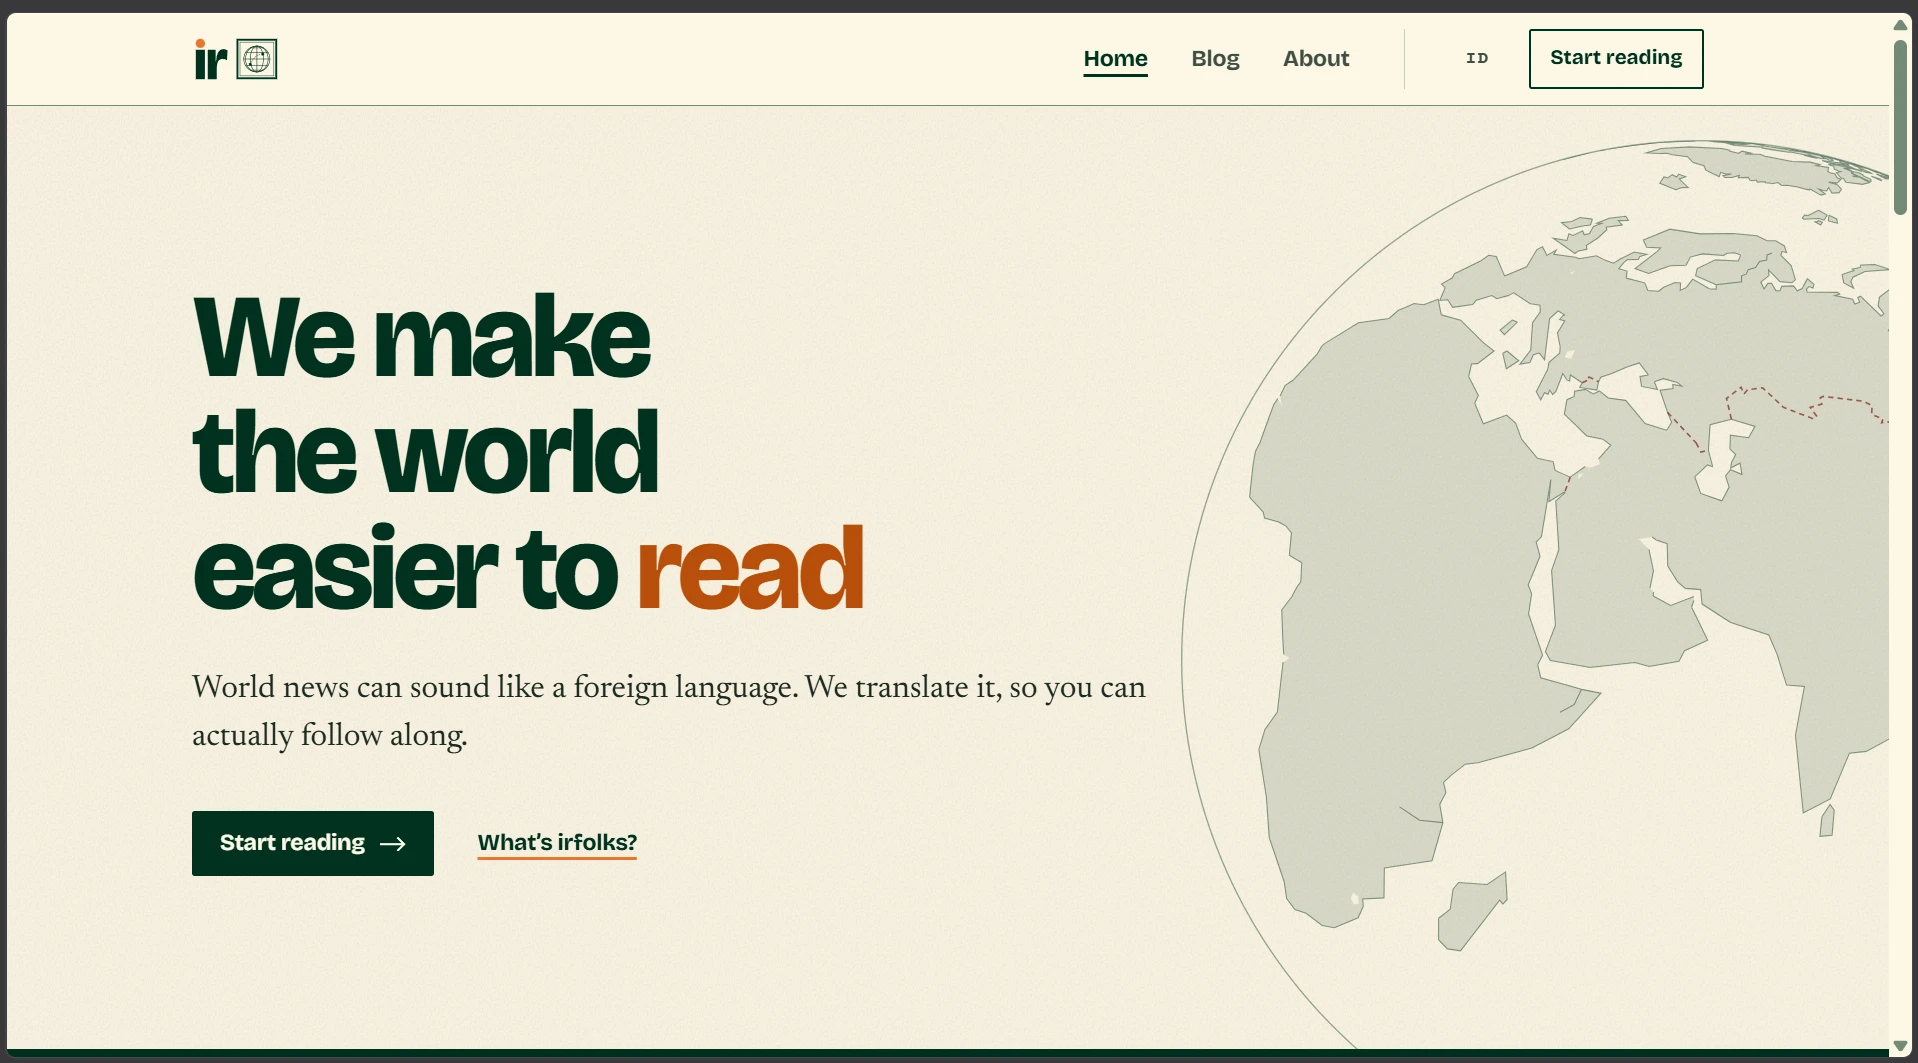
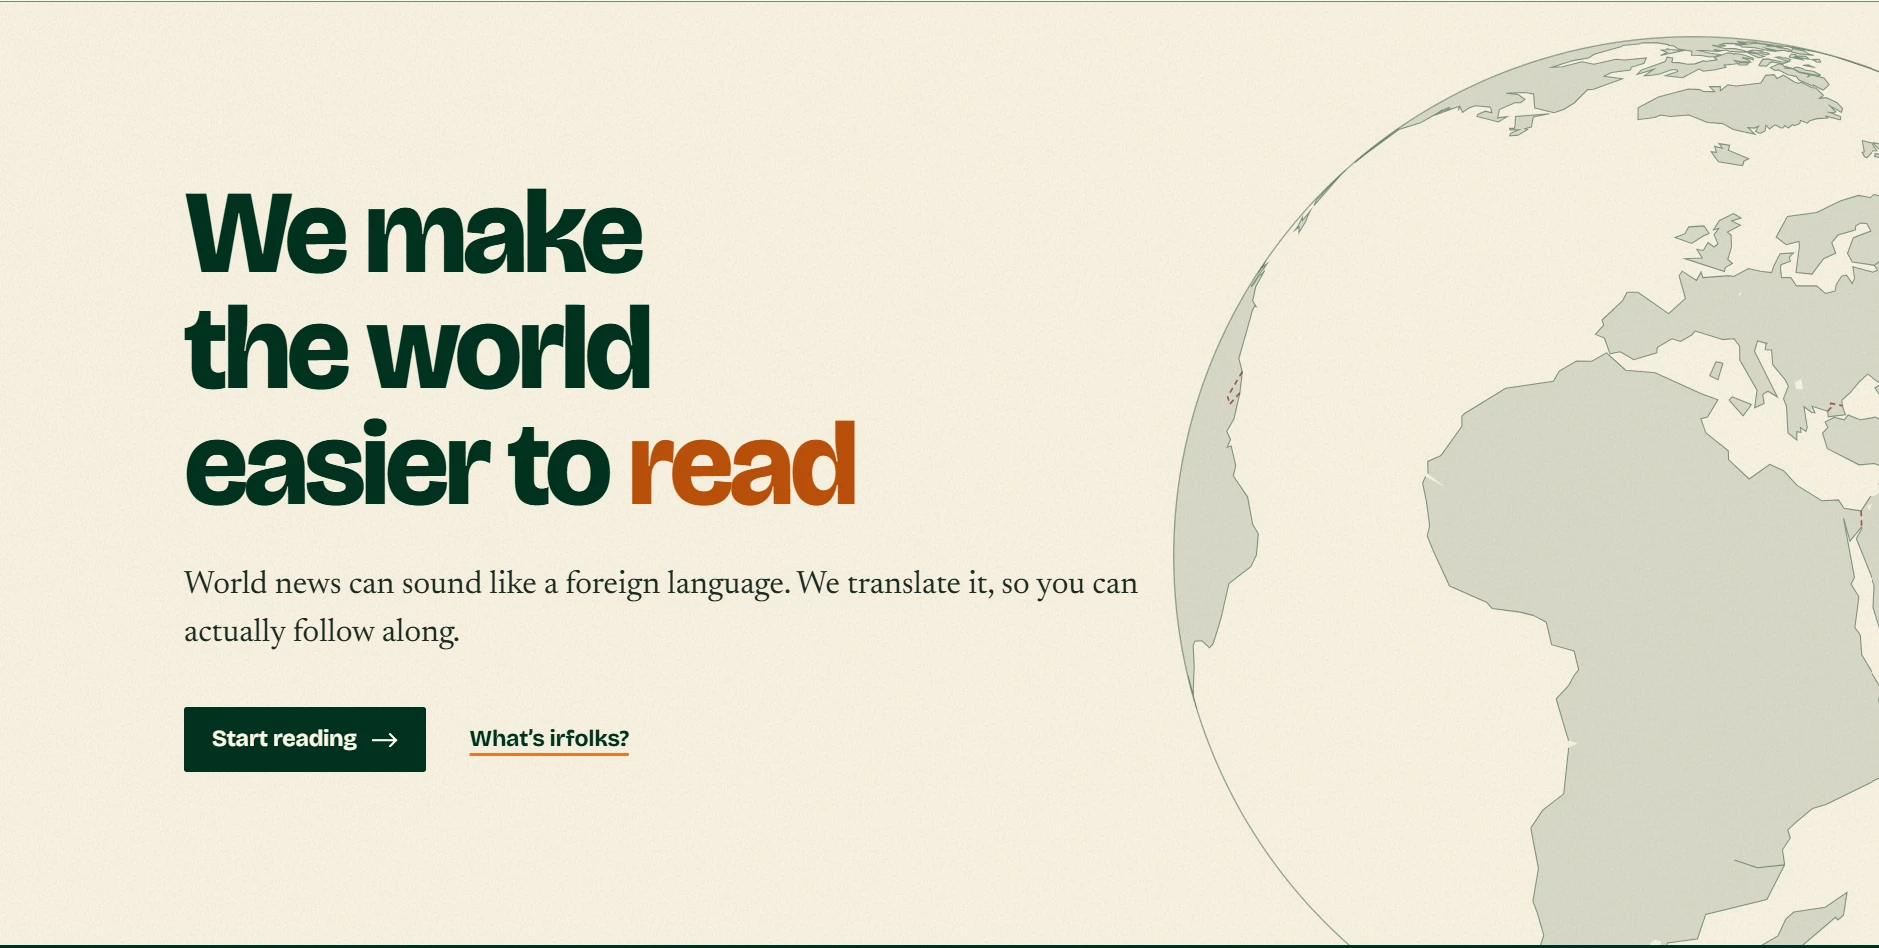
feat(work): cleaner irfolks screenshot; card and collage tile take the image's own ratio so it is never cropped

diff --git a/src/main.js b/src/main.js
@@ -114,7 +114,7 @@ const card = (w) => {
   const live = isUrl(w.url);
   const cover = coverHtml(w, { lazy: true, label: true });
   const body = `
-    <div class="card__media" data-reveal="expand">${cover}</div>
+    <div class="card__media" data-reveal="expand"${w.cover_ratio ? ` style="aspect-ratio:${w.cover_ratio}"` : ''}>${cover}</div>
     <div class="card__meta">
       <h3>${ph(w.title, 'Placeholder title')}</h3>
       <p>${esc(w.category)} · ${ph(w.year, '0000')}</p>
@@ -359,7 +359,7 @@ const DECO = ['accent', 'soft', 'muted'];
 const tile = (w, i) => {
   const [x, y, width, ratio, speed] = SLOTS[i % SLOTS.length];
   const attrs = (cls) =>
-    `class="tile ${cls}" data-x="${x}" data-y="${y}" data-speed="${speed}" style="--w:${width};--r:${ratio};--wh:40"`;
+    `class="tile ${cls}" data-x="${x}" data-y="${y}" data-speed="${speed}" style="--w:${width};--r:${w?.cover_ratio ?? ratio};--wh:40"`;
   if (!w) return `<div ${attrs(`tile--deco tile--${DECO[(i >> 1) % DECO.length]}`)} aria-hidden="true"></div>`;
   const body = `<div class="tile__media">${coverHtml(w, { lazy: true })}</div>
     <p class="tile__cap">${ph(w.title, 'Placeholder title')}<span>${esc(w.category)}</span></p>`;

diff --git a/src/styles.css b/src/styles.css
@@ -195,7 +195,7 @@ html[data-mode='color'] .clock { color: #faeb92; }
 .sheet--soft { background: var(--soft2); transform: rotate(-12deg) translate(-6%, 2%); }
 .sheet--accent { background: var(--accent); transform: rotate(7deg) translate(4%, 3%); }
 .sheet--top { background: var(--soft); transform: rotate(-3deg); }
-.sheet--top .cover { object-position: 16% 50%; } /* the cover is landscape, the sheet is portrait: keep the headline side */
+.sheet--top .cover { object-position: 11.5% 50%; } /* the cover is landscape, the sheet is portrait: keep the headline side */
 .stack:hover .sheet--mid { transform: rotate(22deg) translate(14%, -4%); }
 .stack:hover .sheet--soft { transform: rotate(-20deg) translate(-12%, 3%); }
 .stack:hover .sheet--accent { transform: rotate(13deg) translate(8%, 5%); }
